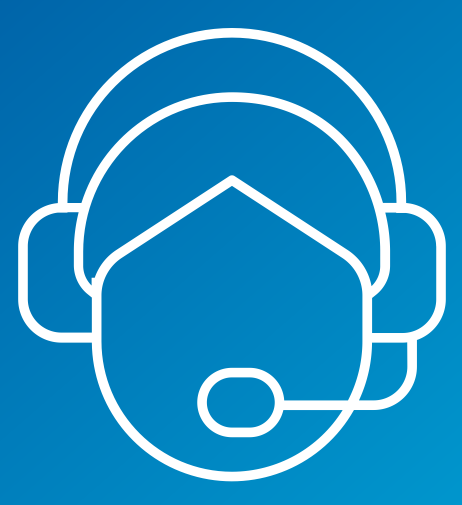
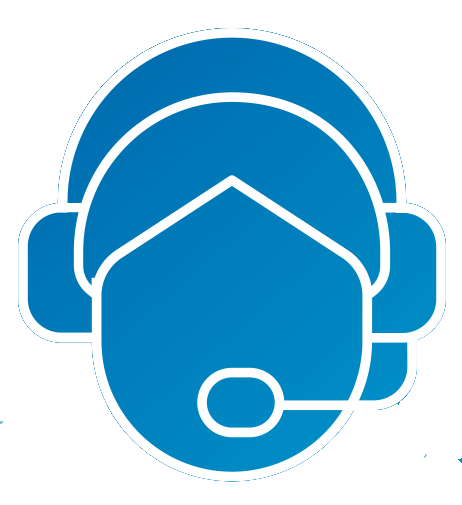
A few cosmetic changes
Made the outer background of the icon transparent; Applied the color closer to the icon blue to the app; Added the no warranty statement to top level of pages;

diff --git a/formbot_app/lib/homepage.dart b/formbot_app/lib/homepage.dart
@@ -1,3 +1,7 @@
+/*This software is free to use by anyone. It comes with no warranties and is provided solely "AS-IS".
+It may contain significant bugs, or may not even perform the intended tasks, or fail to be fit for any purpose.
+University of Maryland is not responsible for any shortcomings and the user is solely responsible for the use.*/
+
 import 'package:flutter/material.dart';
 
 import 'widgets/app_drawer.dart';
@@ -21,6 +25,7 @@ class HomePage extends StatelessWidget {
 
     return Scaffold(
       appBar: AppBar(
+        backgroundColor: Color(0xFF007fbc),
           title: Row(
             children: <Widget>[
               Image.asset(
@@ -57,15 +62,24 @@ class HomePage extends StatelessWidget {
 
               SizedBox(
                 width: 230,
+//<<<<<<< Updated upstream
                 child: ElevatedButton(
-                 style: ElevatedButton.styleFrom(primary: Colors.blue),
+                 //style: ElevatedButton.styleFrom(primary: Colors.blue),
+                  style: ElevatedButton.styleFrom(primary: Color(0xFF007fbc)),
+//=======
+                //child: RaisedButton(
+                  //color: Colors.blue,
+                  //color: Color(0xFF007fbc),
+//>>>>>>> Stashed changes
                   onPressed: () => {Navigator.pushNamed(context, Routes.conversation)},
                   child: Padding(
                     padding: const EdgeInsets.all(8.0),
                     child: Text(
                       'Begin Conversation',
-                      style: TextStyle(fontSize: 20),
+                      //style: TextStyle(fontSize: 20),
+                      style: TextStyle(fontSize: 20, color: Colors.white),
                     ),
+
                   ),
                 ),
               ),
@@ -73,7 +87,8 @@ class HomePage extends StatelessWidget {
               SizedBox(
                 width: 230,
                 child: ElevatedButton(
-                  style: ElevatedButton.styleFrom(primary: Colors.blue),
+                  //style: ElevatedButton.styleFrom(primary: Colors.blue),
+                  style: ElevatedButton.styleFrom(primary: Color(0xFF007fbc)),
                   onPressed: () {},
                   child: Padding(
                     padding: const EdgeInsets.all(8.0),
@@ -88,7 +103,8 @@ class HomePage extends StatelessWidget {
               SizedBox(
                 width: 230,
                 child: ElevatedButton(
-                  style: ElevatedButton.styleFrom(primary: Colors.blue),
+                  //style: ElevatedButton.styleFrom(primary: Colors.blue),
+                  style: ElevatedButton.styleFrom(primary: Color(0xFF007fbc)),
                   onPressed: () {},
                   child: Padding(
                     padding: const EdgeInsets.all(8.0),
@@ -103,7 +119,8 @@ class HomePage extends StatelessWidget {
               SizedBox(
                 width: 230,
                 child: ElevatedButton(
-                  style: ElevatedButton.styleFrom(primary: Colors.blue),
+                  //style: ElevatedButton.styleFrom(primary: Colors.blue),
+                  style: ElevatedButton.styleFrom(primary: Color(0xFF007fbc)),
                   onPressed: () => {Navigator.pushNamed(context, Routes.help)},
                   child: Padding(
                     padding: const EdgeInsets.all(8.0),
@@ -115,15 +132,15 @@ class HomePage extends StatelessWidget {
                 ),
               ),
 
-              SizedBox(height: 50),
-              Container(
+              SizedBox(height: 125),
+              /*Container(
                 // margin: EdgeInsets.only(top: 100),
                 padding: const EdgeInsets.all(20.0),
                 alignment: Alignment.bottomCenter,
                 child: Text(
                     """This software is free to use by anyone. It comes with no warranties and is provided solely "AS-IS". It may contain significant bugs, or may not even perform the intended tasks, or fail to be fit for any purpose. University of Maryland is not responsible for any shortcomings and the user is solely responsible for the use.
                       """),
-              )
+              )*/
             ]
         ),
       ),

diff --git a/formbot_app/lib/loginpage.dart b/formbot_app/lib/loginpage.dart
@@ -1,10 +1,15 @@
+/*This software is free to use by anyone. It comes with no warranties and is provided solely "AS-IS".
+It may contain significant bugs, or may not even perform the intended tasks, or fail to be fit for any purpose.
+University of Maryland is not responsible for any shortcomings and the user is solely responsible for the use.*/
+
 import 'package:flutter/material.dart';
 
 import 'widgets/app_drawer.dart';
 import 'routes/routes.dart';
 import 'auth.dart';
-
-
+import 'help.dart';
+import 'homepage.dart';
+import 'chat.dart';
 
 // This widget is the home page of the application. It is stateful.
 class LoginPage extends StatefulWidget {
@@ -81,6 +86,9 @@ class _LoginPage extends State<LoginPage> {
       // created by the App.build method.
       appBar: AppBar(
         title: Text(widget.title),
+          //backgroundColor: Color(0xFF007fbc)
+        backgroundColor: (Colors.white),
+        iconTheme: (IconThemeData(color: Colors.black)),
       ),
 
       body: Center(
@@ -92,9 +100,19 @@ class _LoginPage extends State<LoginPage> {
               textAlign: TextAlign.center,
               style: TextStyle(fontSize: 16.0,fontWeight: FontWeight.bold,),
             ),
-            const SizedBox(height: 30, width: 10.0,),
+            const SizedBox(height: 50, width: 10.0,),
             logInButton,
             helpButton,
+
+            SizedBox(height: 100),
+            Container(
+              // margin: EdgeInsets.only(top: 100),
+              padding: const EdgeInsets.all(20.0),
+              alignment: Alignment.bottomCenter,
+              child: Text(
+                  """This software is free to use by anyone. It comes with no warranties and is provided solely "AS-IS". It may contain significant bugs, or may not even perform the intended tasks, or fail to be fit for any purpose. University of Maryland is not responsible for any shortcomings and the user is solely responsible for the use.
+                      """),
+            )
           ],
         ),
       ),

diff --git a/formbot_app/lib/widgets/app_drawer.dart b/formbot_app/lib/widgets/app_drawer.dart
@@ -1,3 +1,7 @@
+/*This software is free to use by anyone. It comes with no warranties and is provided solely "AS-IS".
+It may contain significant bugs, or may not even perform the intended tasks, or fail to be fit for any purpose.
+University of Maryland is not responsible for any shortcomings and the user is solely responsible for the use.*/
+
 import 'package:flutter/material.dart';
 
 import 'package:formbot_app/routes/routes.dart';
@@ -47,16 +51,17 @@ class _AuthDrawerState extends State<AuthDrawer>{
               height: 300,
               width: 300,
               decoration: BoxDecoration(
-                color: Colors.white,
-                  // color: Colors.black,
+                //color: Colors.white,
+                  //color: Color(0xFFFAFAFA),
+                  color: Color(0xFF007fbc),
                   image: DecorationImage(
                       image: AssetImage("assets/images/cover-icon.png"),
-                      //image: AssetImage("assets/images/cover-icon-new.png"),
                       fit: BoxFit.contain)),
             ),
           ),
           // use _createDrawerItem instead of listing each tile
-          _createDrawerItem(icon: Icons.verified_user, text: '{$_email}'),
+          //_createDrawerItem(icon: Icons.verified_user, text: '{$_email}'),
+          _createDrawerItem(icon: Icons.verified_user, text: '$_email'),  // Removed the curly braces as these appear in the app
           _createDrawerItem(icon: Icons.home,text: 'Home', onTap: () => Navigator.pushNamed(context, Routes.home)),
           _createDrawerItem(icon: Icons.chat,text: 'Begin Conversation', onTap: () => Navigator.pushNamed(context, Routes.conversation)),
           _createDrawerItem(icon: Icons.receipt, text: 'View Reports'),

diff --git a/formbot_app/lib/help.dart b/formbot_app/lib/help.dart
@@ -1,3 +1,7 @@
+/*This software is free to use by anyone. It comes with no warranties and is provided solely "AS-IS".
+It may contain significant bugs, or may not even perform the intended tasks, or fail to be fit for any purpose.
+University of Maryland is not responsible for any shortcomings and the user is solely responsible for the use.*/
+
 import 'package:flutter/material.dart';
 
 import 'widgets/app_drawer.dart';
@@ -22,6 +26,8 @@ class HelpPage extends StatelessWidget {
     return new Scaffold(
       appBar: AppBar(
         title: Text("Help"),
+        backgroundColor: Color(0xFF007fbc),
+
       ),
       endDrawer: AuthDrawer(),
       body: Center(
@@ -34,6 +40,7 @@ class HelpPage extends StatelessWidget {
                 Navigator.pop(context);
               },
               child: Text('Back'),
+              style: ElevatedButton.styleFrom(primary: Color(0xFF007fbc)),
             ),
           ]
         )

diff --git a/formbot_app/lib/chat.dart b/formbot_app/lib/chat.dart
@@ -1,3 +1,7 @@
+/*This software is free to use by anyone. It comes with no warranties and is provided solely "AS-IS".
+It may contain significant bugs, or may not even perform the intended tasks, or fail to be fit for any purpose.
+University of Maryland is not responsible for any shortcomings and the user is solely responsible for the use.*/
+
 import 'dart:io';
 import 'dart:async';
 import 'package:flutter/material.dart';
@@ -234,6 +238,7 @@ class _ChatState extends State<Chat> {
     return Scaffold(
       appBar: AppBar(
         title: Text('Conversation'),
+        backgroundColor: Color(0xFF007fbc),
       ),
 
       body: Column(

diff --git a/formbot_app/lib/auth.dart b/formbot_app/lib/auth.dart
@@ -1,3 +1,7 @@
+/*This software is free to use by anyone. It comes with no warranties and is provided solely "AS-IS".
+It may contain significant bugs, or may not even perform the intended tasks, or fail to be fit for any purpose.
+University of Maryland is not responsible for any shortcomings and the user is solely responsible for the use.*/
+
 import 'package:firebase_auth/firebase_auth.dart';
 import 'package:firebase_core/firebase_core.dart';
 import 'package:formbot_app/bloc.dart';

diff --git a/formbot_app/lib/formscriberrunner.dart b/formbot_app/lib/formscriberrunner.dart
@@ -1,3 +1,7 @@
+/*This software is free to use by anyone. It comes with no warranties and is provided solely "AS-IS".
+It may contain significant bugs, or may not even perform the intended tasks, or fail to be fit for any purpose.
+University of Maryland is not responsible for any shortcomings and the user is solely responsible for the use.*/
+
 import 'package:flutter/material.dart';
 import 'formscriberstatelessroot.dart';
 void main() {

diff --git a/formbot_app/lib/routes/routes.dart b/formbot_app/lib/routes/routes.dart
@@ -1,3 +1,7 @@
+/*This software is free to use by anyone. It comes with no warranties and is provided solely "AS-IS".
+It may contain significant bugs, or may not even perform the intended tasks, or fail to be fit for any purpose.
+University of Maryland is not responsible for any shortcomings and the user is solely responsible for the use.*/
+
 //import 'package:flutter/material.dart';
 
 import 'package:formbot_app/help.dart';

diff --git a/formbot_app/lib/formscriberstatelessroot.dart b/formbot_app/lib/formscriberstatelessroot.dart
@@ -1,3 +1,6 @@
+/*This software is free to use by anyone. It comes with no warranties and is provided solely "AS-IS".
+It may contain significant bugs, or may not even perform the intended tasks, or fail to be fit for any purpose.
+University of Maryland is not responsible for any shortcomings and the user is solely responsible for the use.*/
 
 import 'package:flutter/material.dart';
 import 'routes/routes.dart';

diff --git a/formbot_app/lib/bloc.dart b/formbot_app/lib/bloc.dart
@@ -1,3 +1,6 @@
+/*This software is free to use by anyone. It comes with no warranties and is provided solely "AS-IS".
+It may contain significant bugs, or may not even perform the intended tasks, or fail to be fit for any purpose.
+University of Maryland is not responsible for any shortcomings and the user is solely responsible for the use.*/
 
 abstract class Bloc {
   void dispose();

diff --git a/formbot_app/README.md b/formbot_app/README.md
@@ -1,3 +1,7 @@
+This software is free to use by anyone. It comes with no warranties and is provided solely "AS-IS".  
+It may contain significant bugs, or may not even perform the intended tasks, or fail to be fit for any purpose.  
+University of Maryland is not responsible for any shortcomings and the user is solely responsible for the use.
+
 # formbot_app
 
 An artificial intelligence bot that automatically fills out forms as you speak.
